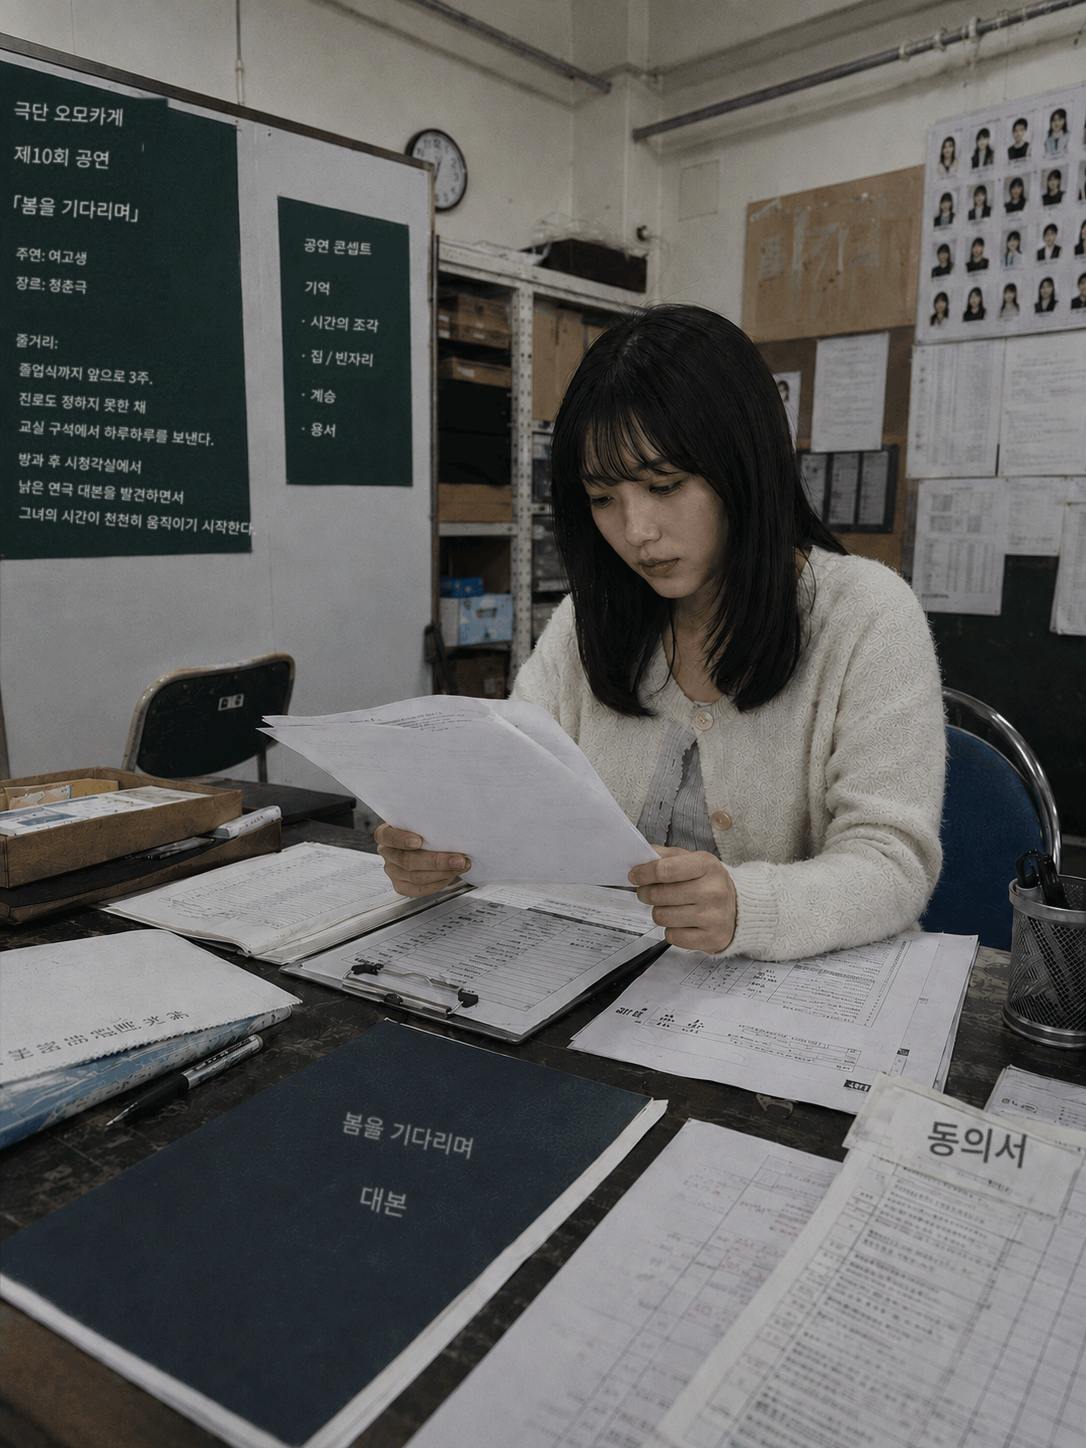
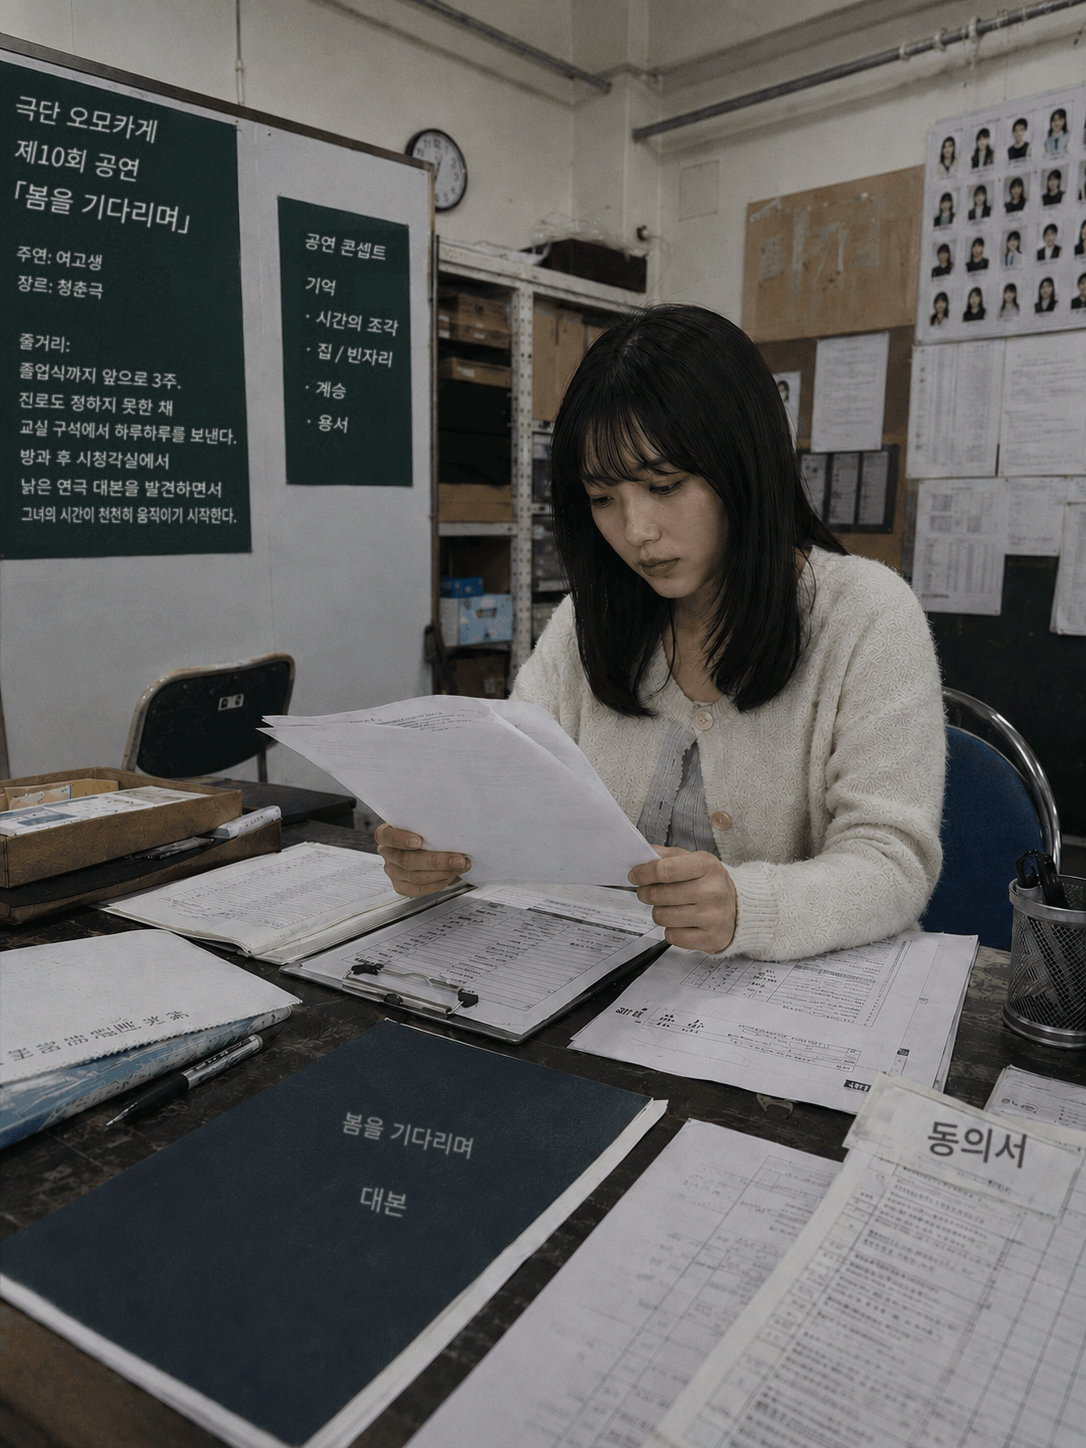
연습실③ 칠판 포스터: 줄마다 원근 기울기(위 10.5도→아래 0.4도) 측정해 맞춤, 원작 글자 크기, 판 모양 밖 칠 안 함

Changed region(s): [[0.0, 0.0622, 0.2431, 0.3729], [0.2735, 0.1554, 0.3646, 0.3108]]

diff --git a/tools/img_ko2_scripts/photo/ps_fillmask.jsx b/tools/img_ko2_scripts/photo/ps_fillmask.jsx
@@ -1,0 +1,20 @@
+app.displayDialogs = DialogModes.NO; app.preferences.rulerUnits = Units.PIXELS;
+var D = "C:/Users/user/arg/omokage-kr/_adobe/photo/";
+var A = (function(){ var f = new File($.fileName.replace(/\.jsx$/, ".args.txt")); f.open("r"); var t = f.read(); f.close(); return eval("(" + t + ")"); })();
+while (app.documents.length) app.documents[0].close(SaveOptions.DONOTSAVECHANGES);
+var doc = app.open(new File(D + "erased_" + A.name + ".psd"));
+var m = app.open(new File(D + "fill_" + A.name + "_rgba.png"));
+m.activeLayer.duplicate(doc, ElementPlacement.PLACEATBEGINNING); m.close(SaveOptions.DONOTSAVECHANGES);
+app.activeDocument = doc; var ml = doc.layers[0];
+var d = new ActionDescriptor(), r = new ActionReference(); r.putProperty(charIDToTypeID("Chnl"), charIDToTypeID("fsel"));
+d.putReference(charIDToTypeID("null"), r); var r2 = new ActionReference(); r2.putEnumerated(charIDToTypeID("Chnl"), charIDToTypeID("Chnl"), charIDToTypeID("Trsp"));
+d.putReference(charIDToTypeID("T   "), r2); executeAction(charIDToTypeID("setd"), d, DialogModes.NO);
+ml.remove();
+var L = null; for (var i = 0; i < doc.layers.length; i++) if (doc.layers[i].name == "erased") L = doc.layers[i];
+doc.activeLayer = L; doc.selection.feather(1);
+var c = new SolidColor(); c.rgb.red = A.color[0]; c.rgb.green = A.color[1]; c.rgb.blue = A.color[2]; doc.selection.fill(c);
+L.applyAddNoise(A.noise || 1.5, NoiseDistribution.GAUSSIAN, true); L.applyGaussianBlur(0.5);
+doc.selection.deselect();
+var so = new PhotoshopSaveOptions(); so.layers = true; doc.saveAs(new File(D + "erased_" + A.name + ".psd"), so, true);
+doc.saveAs(new File(D + "erased_" + A.name + ".png"), new PNGSaveOptions(), true);
+doc.close(SaveOptions.DONOTSAVECHANGES); "ok";

diff --git a/tools/img_ko2_scripts/photo/ai_place.jsx b/tools/img_ko2_scripts/photo/ai_place.jsx
@@ -39,6 +39,9 @@ for (var i = 0; i < S.items.length; i++) {
   if (it.size) s = it.size / h; // 높이를 직접 정할 때
   if (!it.pt) tf.resize(s * 100, s * 100);
   if (it.sw) tf.textRange.characterAttributes.strokeWeight = it.sw; // 획은 크기와 따로
+  if (it.hfit) { // 높이는 상자에 맞추고, 넘치는 폭은 장평으로 줄인다
+    var hb = vb(tf), hh = hb[1] - hb[3]; if (!it.pt) { var k = (bx[3] - bx[1]) / hh; tf.resize(k * 100, k * 100); }
+    hb = vb(tf); var ww = hb[2] - hb[0]; if (ww > bx[2] - bx[0]) tf.textRange.characterAttributes.horizontalScale = 100 * (bx[2] - bx[0]) / ww; }
   b = vb(tf); w = b[2] - b[0]; h = b[1] - b[3];
   var tx = it.align == "center" ? ((bx[0] + bx[2]) / 2 - (b[0] + b[2]) / 2) : it.align == "right" ? (bx[2] - b[2]) : (bx[0] - b[0]);
   var ty = (-((bx[1] + bx[3]) / 2)) - ((b[1] + b[3]) / 2);
